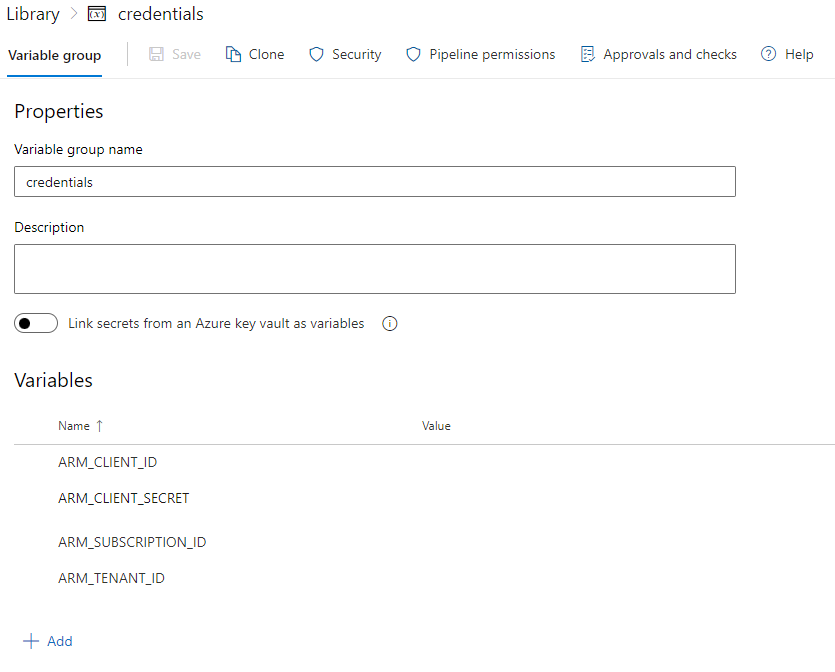
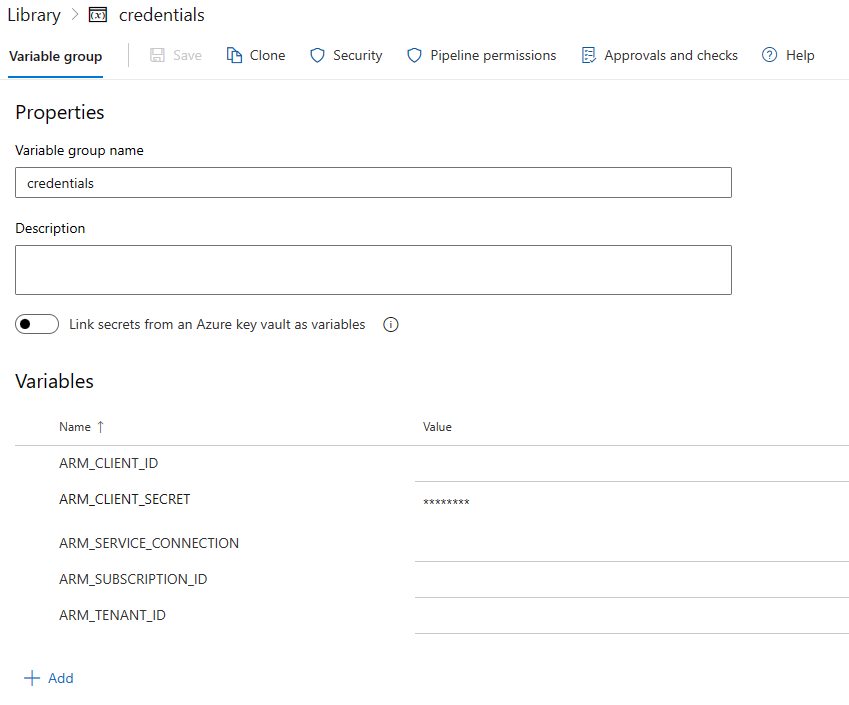
Update Wiki ADO Workload Identity (#829)
* Update

* Update

* Update

* Update docs/wiki/OIDC.md

* Update Wording

---------

diff --git a/docs/wiki/OIDC.md b/docs/wiki/OIDC.md
@@ -1,0 +1,71 @@
+# Use Workload identity federation with the AzOps
+
+- [Introduction](#introduction)
+- [Configure](#configure)
+  - [GitHub](#github)
+  - [Azure Pipelines](#azure-pipelines)
+- [Resources](#resources)
+
+## Introduction
+
+GitHub Actions and Azure Pipelines can make use of OpenID Connect (OIDC) for secure deployments to Azure, which uses short-lived tokens that are automatically rotated for each deployment.
+In the context of AzOps, this means we can allow the AzOps pipeline Service Principal/User-assigned managed identity to access Azure Resource Manager and Azure AD with federated credentials, eliminating the need to create/handle secrets.
+
+This wiki explains how this feature can be used and configured with AzOps.
+
+## Configure
+
+Before you start to configure the workload federation feature in Azure AD and changing the GitHub Actions or Azure DevOps Pipelines, ensure that you have followed the instructions at <https://github.com/azure/azops/wiki/prerequisites> and have your Service Principal/User-assigned managed identity ready with appropriate RBAC permissions.
+
+
+### GitHub
+> **Important**: For this feature to work with the current implementation of Workload identities, we take a dependency on [Environments for GitHub Actions](https://docs.github.com/en/actions/deployment/targeting-different-environments/using-environments-for-deployment). *Environments are only available in public repositories for free. Access to environments in private repositories requires [GitHub Enterprise](https://docs.github.com/en/get-started/learning-about-github/githubs-products#github-enterprise).*
+
+How to setup GitHub Actions with workload identity federation:
+
+- [Create a Microsoft Entra application and service principal](https://learn.microsoft.com/en-us/azure/developer/github/connect-from-azure?tabs=azure-portal%2Cwindows#create-a-microsoft-entra-application-and-service-principal)
+
+- [Add federated credentials](https://learn.microsoft.com/en-us/azure/developer/github/connect-from-azure?tabs=azure-portal%2Cwindows#add-federated-credentials)
+
+>
+> **Note:** The starter GitHub pipelines in [AzOps-Accelerator](https://github.com/azure/azops-accelerator) have been updated to support federated credentials. Consider performing an update using the [update](https://github.com/azure/azops/wiki/updates) pipeline.
+
+
+1. Validate that you have the latest version (post february 2023) of [sharedSteps/action.yml](https://github.com/Azure/AzOps-Accelerator/tree/main/.github/actions/sharedSteps), [pull.yml](https://github.com/Azure/AzOps-Accelerator/blob/main/.github/workflows/pull.yml), [push.yml](https://github.com/Azure/AzOps-Accelerator/blob/main/.github/workflows/push.yml), [redeploy.yml](https://github.com/Azure/AzOps-Accelerator/blob/main/.github/workflows/redeploy.yml) and [validate.yml](https://github.com/Azure/AzOps-Accelerator/blob/main/.github/workflows/validate.yml).
+2. Uncomment the line with environment definition in [pull.yml](https://github.com/Azure/AzOps-Accelerator/blob/main/.github/workflows/pull.yml), [push.yml](https://github.com/Azure/AzOps-Accelerator/blob/main/.github/workflows/push.yml), [redeploy.yml](https://github.com/Azure/AzOps-Accelerator/blob/main/.github/workflows/redeploy.yml) and [validate.yml](https://github.com/Azure/AzOps-Accelerator/blob/main/.github/workflows/validate.yml). Change the environment name to reflect your environment names.
+
+    ```yaml
+        environment: prod # Environment if using Federated Credentials (https://github.com/azure/azops/wiki/oidc)
+    ```
+
+3. Remove all references to `ARM_CLIENT_SECRET` from the repository/environment secrets. If `ARM_CLIENT_SECRET` exists, the pipeline will try to connect with the secret instead.
+
+    ![Overview](./Media/oidc/arm_client_secret.png)
+4. Test the Pull, Push and Validate pipelines to ensure authentication works with federated credential.
+
+### Azure Pipelines
+
+How to setup Azure DevOps Pipelines with workload identity federation:
+
+- [Connect to Microsoft Azure with an ARM service connection](https://learn.microsoft.com/en-us/azure/devops/pipelines/library/connect-to-azure?view=azure-devops)
+
+- [Manually configure Azure Resource Manager workload identity service connections](https://learn.microsoft.com/en-us/azure/devops/pipelines/release/configure-workload-identity?view=azure-devops)
+
+
+>
+> **Note:** The starter Azure Pipelines in [AzOps-Accelerator](https://github.com/azure/azops-accelerator) have been updated to support federated credentials. Consider performing an update using the [update](https://github.com/azure/azops/wiki/updates) pipeline.
+
+1. Validate that you have the latest version (post october 2023) of [templates/sharedSteps.yml](https://github.com/Azure/AzOps-Accelerator/blob/main/.pipelines/.templates/sharedSteps.yml) and [templates/vars.yml](https://github.com/Azure/AzOps-Accelerator/blob/main/.pipelines/.templates/vars.yml).
+
+3. Remove the `ARM_CLIENT_SECRET` variable from the `credentials` variable group. If `ARM_CLIENT_SECRET` exists, the pipeline will try to connect with the secret instead.
+
+    ![Overview](./Media/oidc/remove-ado-arm_cs.png)
+4. Test the Pull, Push and Validate pipelines to ensure authentication works with federated credential.
+
+## Resources
+
+Read more about the functionality in the official docs below:
+
+- [Azure AD Workload identity federation](https://learn.microsoft.com/en-us/azure/active-directory/develop/workload-identity-federation)
+- [GitHub Actions: Secure cloud deployments with OpenID Connect](https://github.blog/changelog/2021-10-27-github-actions-secure-cloud-deployments-with-openid-connect/)
+- [Azure DevOps Pipelines: Workload Identity federation for Azure Deployments](https://learn.microsoft.com/en-us/azure/devops/release-notes/roadmap/2022/secret-free-deployments)

diff --git a/docs/wiki/GitHub-Actions.md b/docs/wiki/GitHub-Actions.md
@@ -3,9 +3,9 @@
 - [Prerequisites](#prerequisites)
   - [Further reading](#further-reading)
   - [Important Repository Link to refer](#important-repository-link-to-refer)
-- [Two ways to configure AzOps](#Two-ways-to-configure-AzOps)
-- [Configure AzOps via Portal](#Configure-AzOps-via-Portal)
-- [Configure via command-line](#Configure-via-command-line)
+- [Two ways to configure AzOps](#two-ways-to-configure-azops)
+- [Configure AzOps via Portal](#configure-azops-via-portal)
+- [Configure via command-line](#configure-via-command-line)
 
 ## Prerequisites
 
@@ -43,7 +43,7 @@ If you are using GitHub Enterprise Server, you need to [import the repository](h
 ![GIT-Project](./Media/Actions/GIT-Project.PNG)
 3. Review the information you entered, then click Begin import.
 ![GIT-Repository](./Media/Actions/GIT-Repository.PNG)
-4. Navigate to Settings -> Secrets -> Actions and create the required secrets as depicted below. Note that `ARM_CLIENT_SECRET` is not required when using [federated credentials](https://github.com/azure/azops/wiki/github-oidc).
+4. Navigate to Settings -> Secrets -> Actions and create the required secrets as depicted below. Note that `ARM_CLIENT_SECRET` is not required when using [federated credentials](https://github.com/azure/azops/wiki/oidc).
 ![GIT-Secret](./Media/Actions/GIT-Secret.PNG)
 5. Untick `Allow merge commits` and `Allow rebase merging` under Settings -> General -> Pull Requests
 ![GIT-Merge](./Media/Actions/GIT-Merge.PNG)
@@ -70,7 +70,7 @@ gh repo create '<Name>' --template azure/azops-accelerator --private --confirm
 gh secret set 'ARM_TENANT_ID' -b "<Secret>"
 gh secret set 'ARM_SUBSCRIPTION_ID' -b "<Secret>"
 gh secret set 'ARM_CLIENT_ID' -b "<Secret>"
-gh secret set 'ARM_CLIENT_SECRET' -b "<Secret>" # Not required when using federated credentials((https://github.com/azure/azops/wiki/github-oidc) 
+gh secret set 'ARM_CLIENT_SECRET' -b "<Secret>" # Not required when using federated credentials((https://github.com/azure/azops/wiki/oidc) 
 ```
 
 - Disable Allow Merge commits and Allow rebase merging

diff --git a/docs/wiki/Azure-Pipelines.md b/docs/wiki/Azure-Pipelines.md
@@ -54,7 +54,7 @@ The PowerShell script below will set up a new project or use an existing if it a
 
 - Before running the commands below, any `<Value>` needs to be replaced with your values
 
-> If you are running self-hosted build agents in Azure with Managed Identity enabled set the value for `$ARM_CLIENT_ID` and `$ARM_CLIENT_SECRET` to `''`.
+> If you are running self-hosted build agents in Azure with Managed Identity enabled. Remove the variables `$ARM_CLIENT_ID` and `$ARM_CLIENT_SECRET` from `credentials` variable group.
 
 ```PowerShell
 # Configuration, make sure to replace <Value> with your values
@@ -99,6 +99,7 @@ $CredentialVariableGroup = @(
     @{Name = 'ARM_TENANT_ID'; Value = $TenantId; IsSecret = $false }
     @{Name = 'ARM_SUBSCRIPTION_ID'; Value = $SubscriptionId; IsSecret = $false }
     @{Name = 'ARM_CLIENT_ID'; Value = $ARM_CLIENT_ID; IsSecret = $false }
+    @{Name = 'ARM_SERVICE_CONNECTION'; Value = ''; IsSecret = $false }
 )
 if ($ARM_CLIENT_SECRET) {
     $CredentialVariableGroup += @{Name = 'ARM_CLIENT_SECRET'; Value = $ARM_CLIENT_SECRET; IsSecret = $true }
@@ -186,11 +187,12 @@ foreach ($pipeline in 'AzOps - Push', 'AzOps - Pull', 'AzOps - Validate') {
 
   - Add the variables from the `Service Principal` creation to the `credentials Variable group`.
 
-    > If you are running self-hosted build agents in Azure with Managed Identity enabled set the value for `ARM_CLIENT_ID` and `ARM_CLIENT_SECRET` to `null`.
+    > If you are running self-hosted build agents in Azure with Managed Identity enabled, skip adding `ARM_CLIENT_ID` and `ARM_CLIENT_SECRET`.
 
     ```shell
     ARM_CLIENT_ID
     ARM_CLIENT_SECRET
+    ARM_SERVICE_CONNECTION
     ARM_SUBSCRIPTION_ID
     ARM_TENANT_ID
     ```

diff --git a/docs/wiki/Prerequisites.md b/docs/wiki/Prerequisites.md
@@ -26,7 +26,7 @@ The Azure Active Directory [Directory Readers](https://learn.microsoft.com/azure
 ### Create Service Principal
 
 If you intend to run AzOps with hosted agents a Service Principal is required. Perform the steps below to create the Service Principal in Azure AD. If you plan to run with self-hosted agents and want to use a managed identity skip to the next step.
-If using GitHub Enterprise Cloud, consider using [federated credentials](https://github.com/azure/azops/wiki/github-oidc) to eliminate secrets management.
+If using GitHub Enterprise Cloud or Azure DevOps Pipelines, consider using [federated credentials](https://github.com/azure/azops/wiki/oidc) to eliminate secrets management.
 
 ```powershell
 # Install module

diff --git a/docs/wiki/_Sidebar.md b/docs/wiki/_Sidebar.md
@@ -7,8 +7,8 @@
   * [Sovereign Clouds](https://github.com/azure/azops/wiki/sovereign-clouds)
 * [Services](https://github.com/azure/azops/wiki/services)
   * [GitHub Actions](https://github.com/azure/azops/wiki/github-actions)
-    * [Workload identity federation](https://github.com/azure/azops/wiki/github-oidc)
   * [Azure Pipelines](https://github.com/azure/azops/wiki/azure-pipelines)
+  * [Workload Identity Federation](https://github.com/azure/azops/wiki/oidc)
 
 ## Documentation
 
